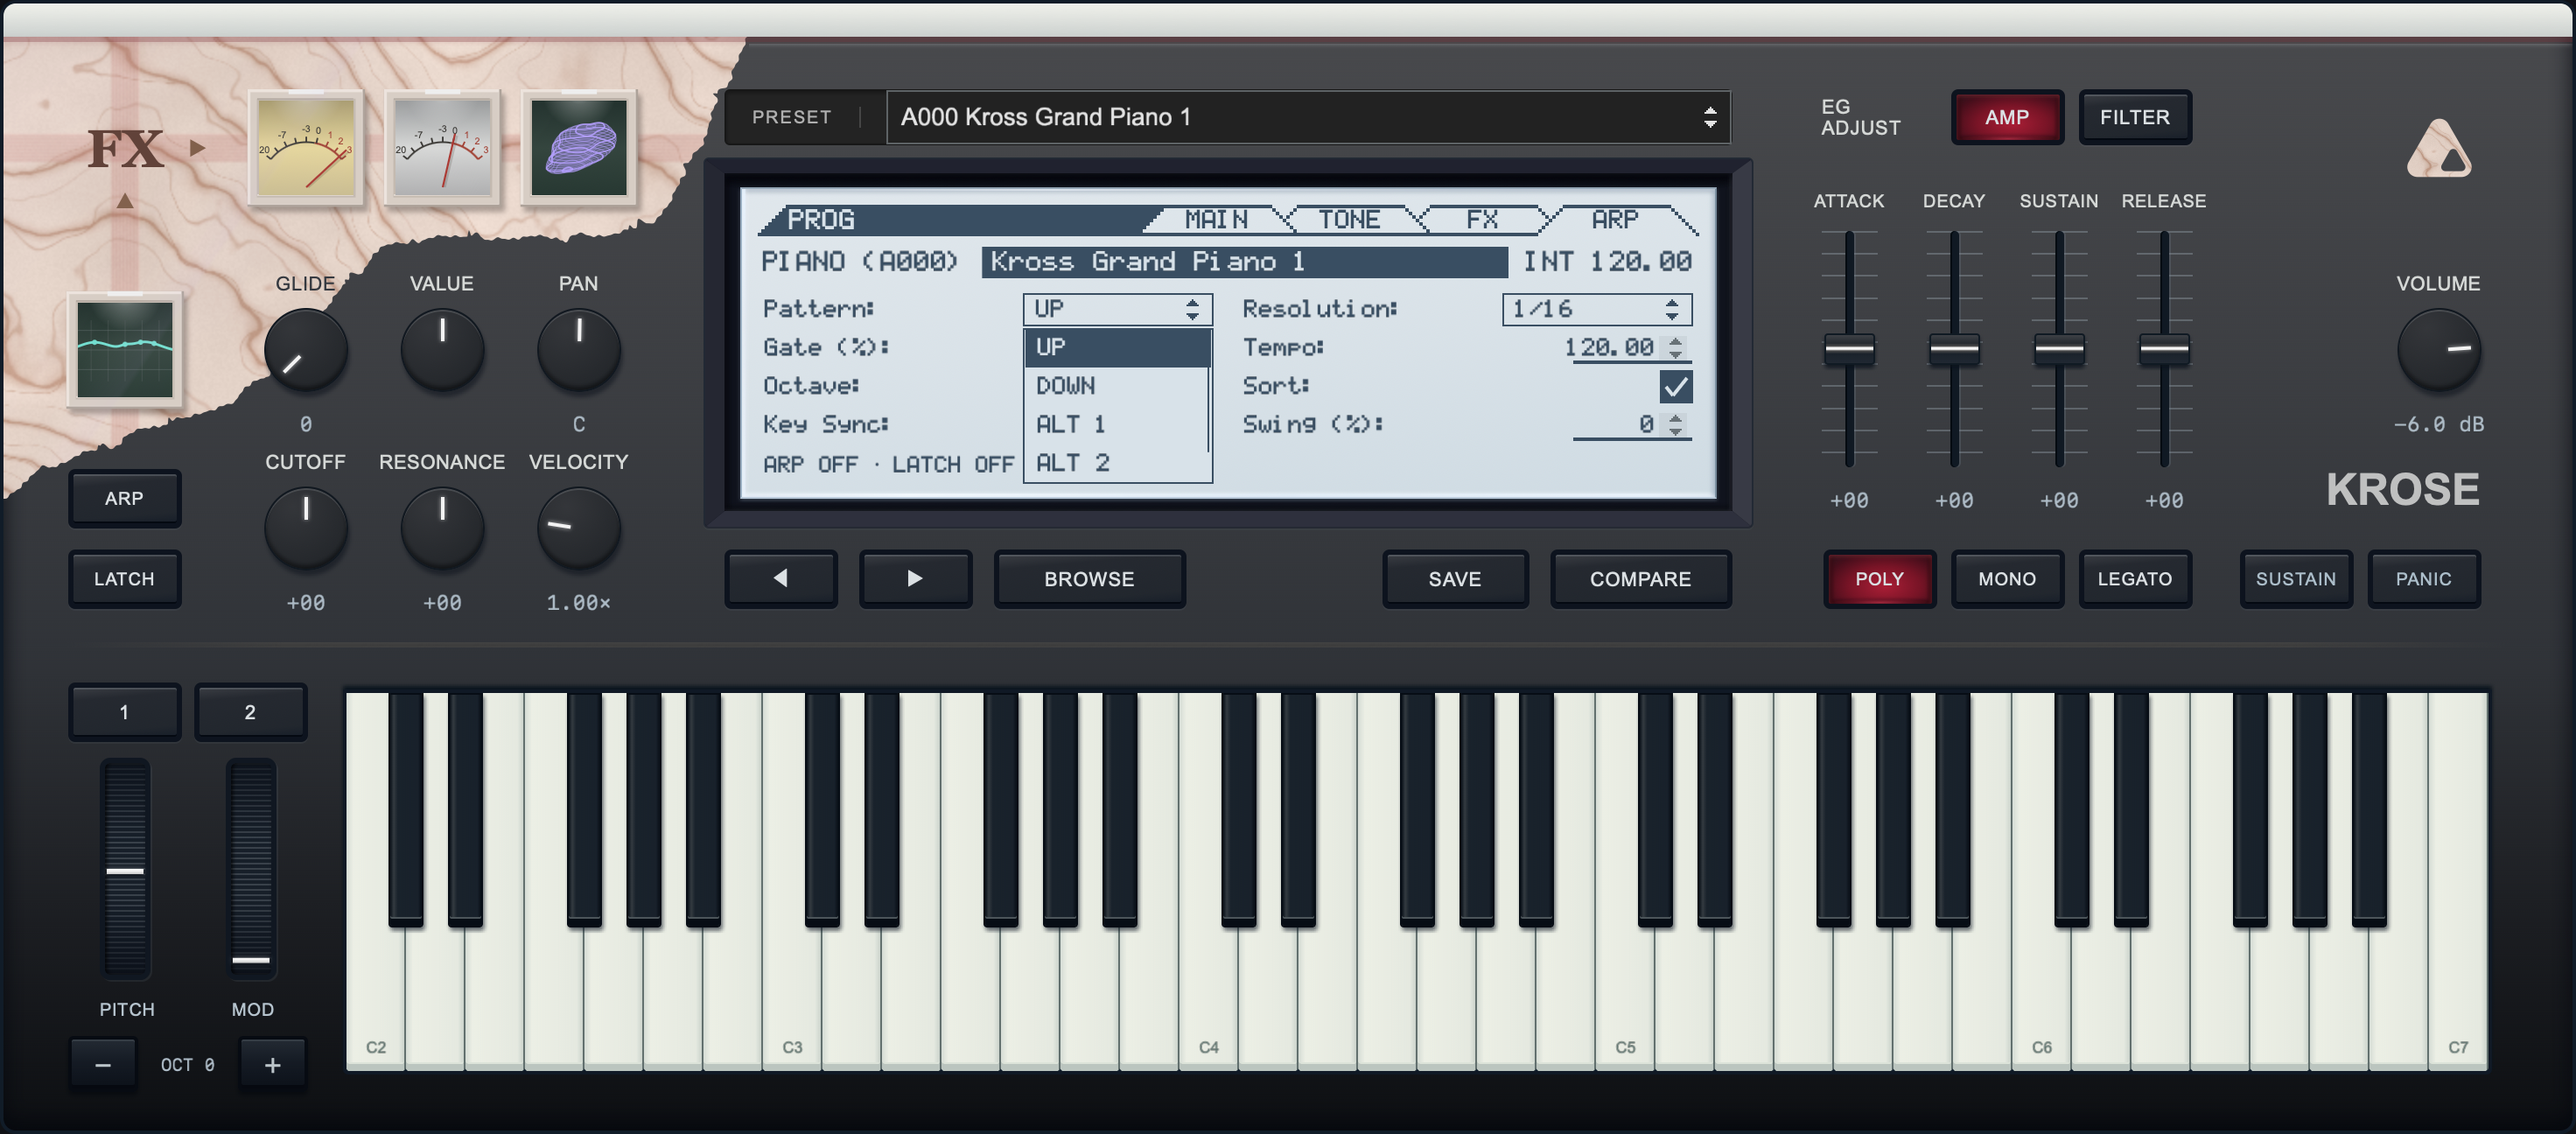
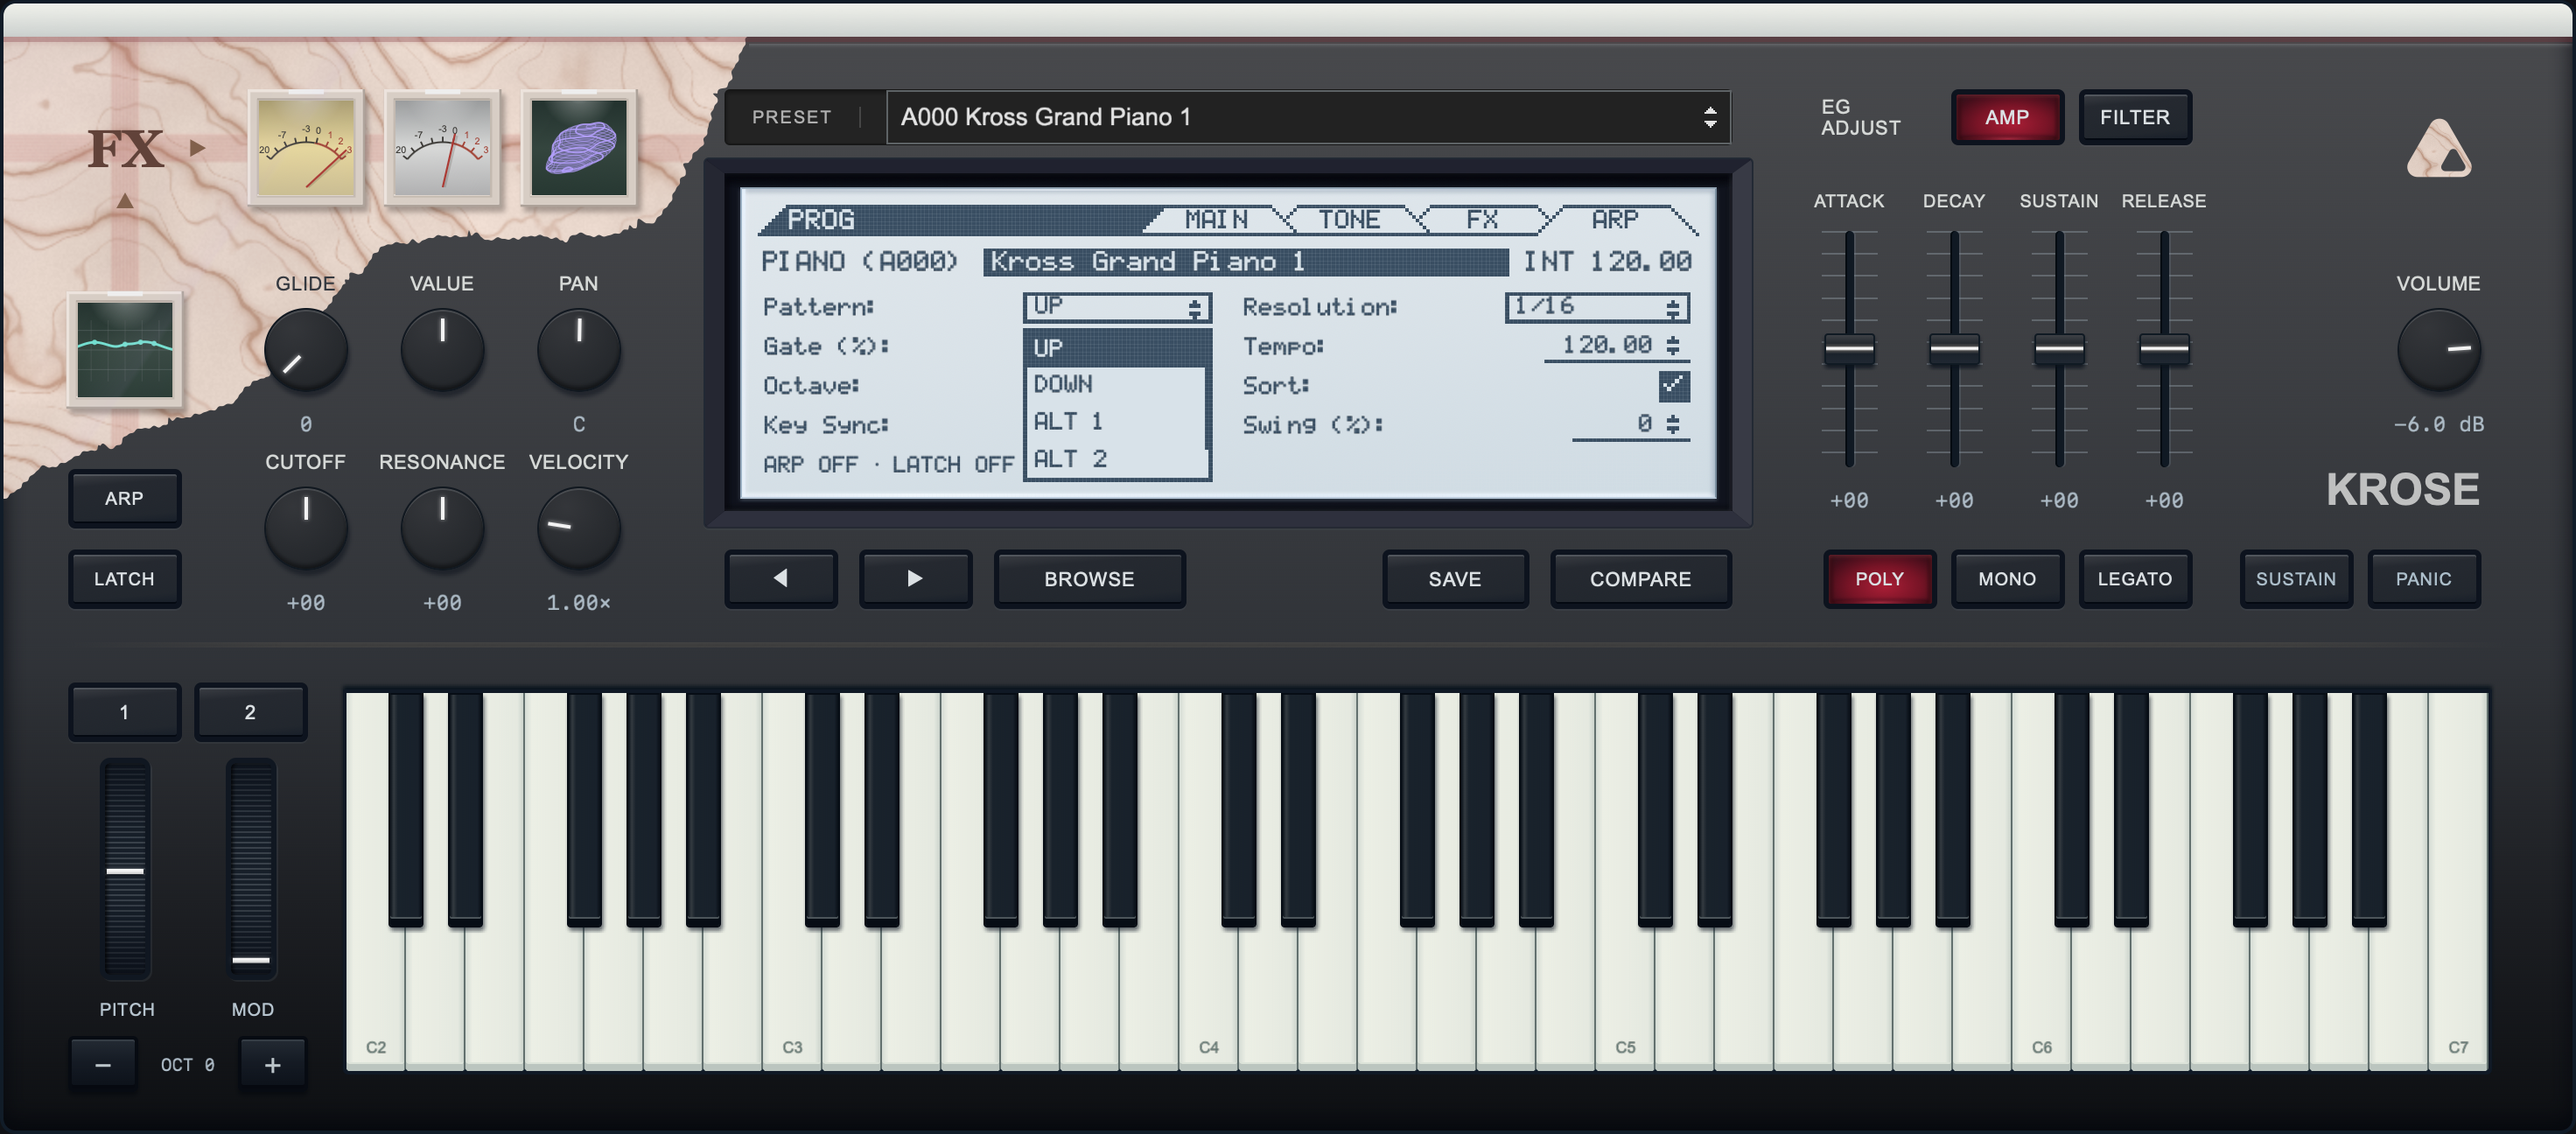
docs: update LCD pixel-grid screenshots and boundary verification

diff --git a/docs/NATIVE_UI_MIGRATION.md b/docs/NATIVE_UI_MIGRATION.md
@@ -8,8 +8,10 @@
 - 已接入旋钮、两套包络推子、61 键键盘、弯音、延音、Panic、LCD 四页、FX 收放、1162 项音色及原厂分类顺序。参数 ID 和声音核心保留。
 - 顶部 PRESET、LCD 和浏览器下拉菜单统一按输入框左边与宽度展开，固定文字内边距与箭头位置，支持鼠标与方向键选择。用户追加要求已落实：LCD 内无圆角，所有下拉框使用直角像素边框及点阵箭头。此项作为原稿之后的明确样式修订记录。
 - 本机原生窗口的 Cocoa 事件测试通过，包括参数编辑、音色搜索、下拉选择和关窗重开；7 项 CTest 通过。原生帧缓冲与冻结页面的对比保存在 `build/native-ui/comparison/`。像素差分仍非零，不能宣称逐像素完全一致。
-- Windows x64 的 VST3 和独立程序已通过 MSVC 编译：[构建记录](https://github.com/shiftz300/krose/actions/runs/41788798938)。CI 使用独立的编译占位包，不包含 PCM，不作可试听产物发布。Windows 窗口与宿主运行尚未实机验收。
+- Windows x64 的 VST3 和独立程序已通过 MSVC 编译：[构建记录](https://github.com/shiftz300/krose/actions/runs/41804763316)。CI 使用独立的编译占位包，不包含 PCM，不作可试听产物发布。Windows 窗口与宿主运行尚未实机验收。
 - LCD 菜单保持与输入框同宽，限制在屏幕内部，超出可见行数时滚动；Home/End、方向键与回车均可选择。数值微调按钮使用点阵箭头，清除了系统圆角底图。浏览器的搜索文字和行点击范围按可见区域裁剪，末尾音色可完整滚入视野。
+
+LCD 数值修订：Tempo 为 `300.00` 预留显示宽度，数字绘制限制在文字区域；微调箭头使用透明底色。LCD 的选中填充、边框、箭头和勾选标记对齐原状态行的 240 列网格，并连续显示像素间隙。原生事件测试覆盖 20.00、300.00 和上限处增减。
 
 ## 文件组织
 
